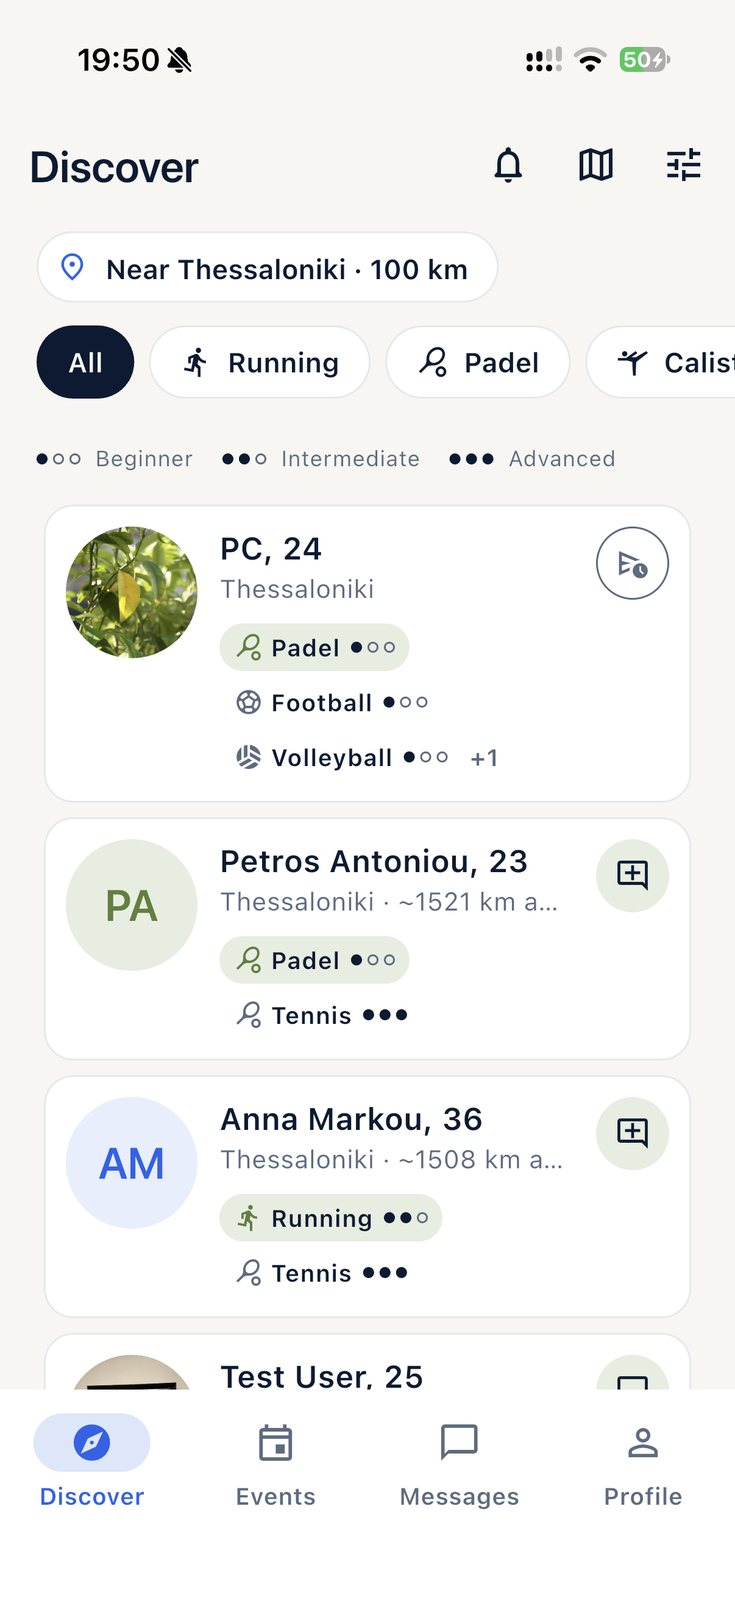
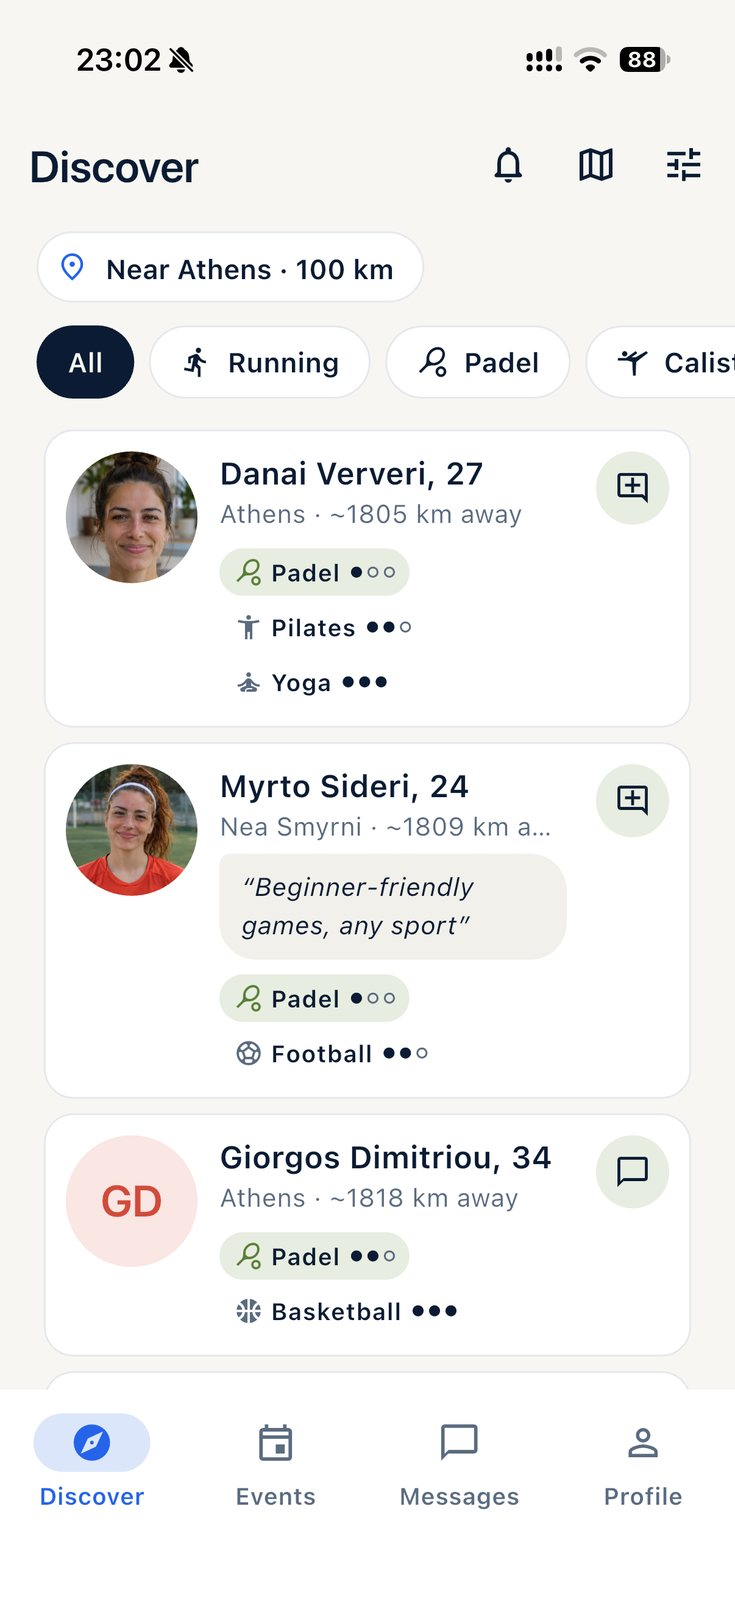
Open the site in Greek by default; new Discover and Events screenshots
Claude-Session: https://claude.ai/code/session_014Lp433Q551PRDiouGM9CZK

diff --git a/index.html b/index.html
@@ -19,8 +19,8 @@
   <meta property="og:image" content="https://athlomate.app/img/logo.png" />
   <meta name="twitter:card" content="summary" />
 
-  <link rel="stylesheet" href="styles.css?v=17" />
-  <link rel="stylesheet" href="anim.css?v=17" />
+  <link rel="stylesheet" href="styles.css?v=18" />
+  <link rel="stylesheet" href="anim.css?v=18" />
 
   <script type="application/ld+json">
   {
@@ -136,7 +136,7 @@
           </article>
           <article class="card wide">
             <div class="card-text"><div class="icon">📅</div><h3 data-i18n="f4t">Create and join events</h3><p data-i18n="f4d">Set a sport, time and place with open spots. Others request to join and you accept.</p></div>
-            <div class="card-shot"><img src="img/create-event.jpg" alt="" width="735" height="1598" loading="lazy" /></div>
+            <div class="card-shot"><img src="img/events.jpg" alt="" width="735" height="1598" loading="lazy" /></div>
           </article>
           <article class="card wide">
             <div class="card-text"><div class="icon">💬</div><h3 data-i18n="f5t">Direct messaging</h3><p data-i18n="f5d">Chat with players to agree the details before you meet.</p>
@@ -283,7 +283,7 @@
     </div>
   </footer>
 
-  <script src="anim.js?v=17"></script>
-  <script src="script.js?v=17"></script>
+  <script src="anim.js?v=18"></script>
+  <script src="script.js?v=18"></script>
 </body>
 </html>

diff --git a/script.js b/script.js
@@ -145,7 +145,8 @@
 
   var saved = null;
   try { saved = localStorage.getItem("athlomate-lang"); } catch (e) {}
-  var initial = saved || ((navigator.language || "").toLowerCase().indexOf("el") === 0 ? "el" : "en");
+  // Greek by default; English only when the visitor picked it before.
+  var initial = saved === "en" ? "en" : "el";
   if (initial === "el") setLang("el"); else renderTicker("en");
 
   // How it works: step tabs with auto-advance
